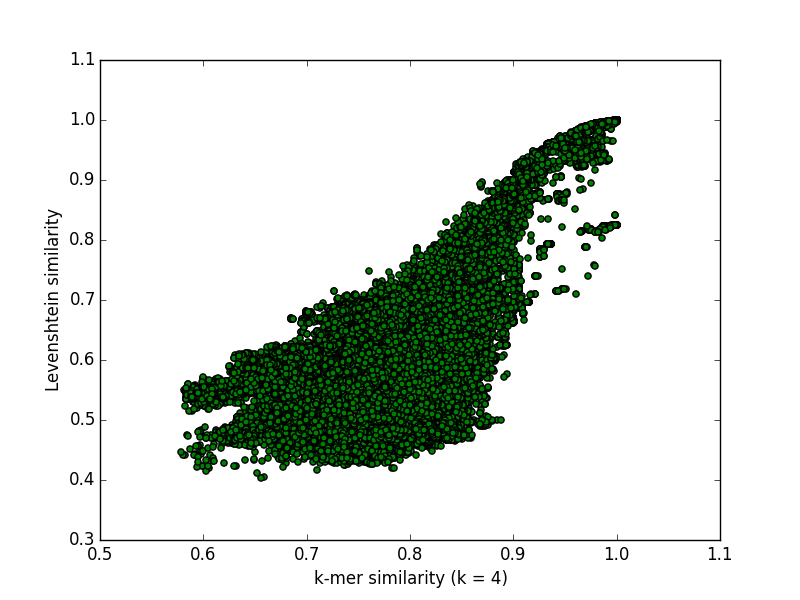
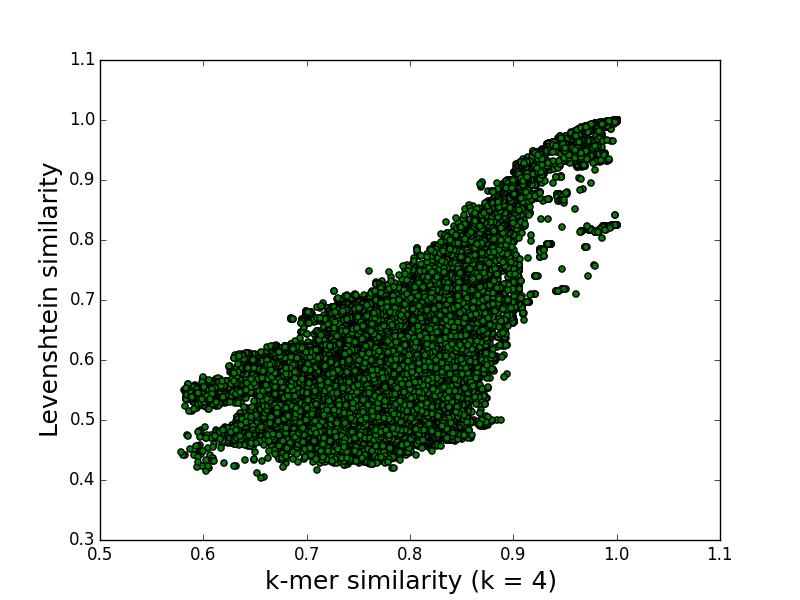
updated graphics

Changed region(s): [[0.0312, 0.27, 0.0938, 0.72], [0.3125, 0.93, 0.7188, 0.99]]

diff --git a/report/research_process.tex b/report/research_process.tex
@@ -101,34 +101,65 @@ total number of $k$-mers in the window in the two sequences, and the
 intersection as the Manhattan distance in the window.
 
 
+
+
+
+\subsection{\textsc{Simple\_Clust} algorithm}
+We have developed a clustering algorithm, named \textsc{Simple\_Clust}, which
+will be described in this section. \textsc{Simple\_Clust} works by iterating
+sequentially through the sequences to be clustered; the $max\_reject$ most
+frequent $k$-mers for the query sequence are calculated and for each of these
+most frequent $k$-mers, a centroid which has that $k$-mer as the most
+frequently occurring one (if one such centroid exists) is compared with the
+query sequence to check if distance is within the given threshold. The query
+sequence is assigned to the cluster for the first centroid that matches the
+query sequence; if no such centroid is found, out of the maximum possible
+$max\_reject$ number of tries, the query sequence becomes a centroid for a new
+cluster, the most frequent $k$-mer is decided and the sequence, along with this
+information, is added to the collection of centroids.
+
+This is repeated for all sequences in the input file.
+
+
 \subsection{Results}
 \begin{figure}[H]
-\begin{tabular}{ c | c }
-  Metric                                        & Comparisons/second      \\
-  \hline \hline
-  Dynamic programming (bottom up) Levenshtein   & $\sim$ 70               \\
-  \hline
-  d2-distance with window, $k=4$                & $\sim$ 73000            \\
-  \hline
-  d2-distance with window, $k=6$                & $\sim$ 63000            \\
-  \hline
-  d2-distance with window, $k=8$                & $\sim$ 24000            \\
-\end{tabular}
-\caption{Performance of different distance metrics.}
+  \centering
+  \begin{tabular}{ c | c }
+    Metric                                        & Comparisons/second      \\
+    \hline \hline
+    Dynamic programming (bottom up) Levenshtein   & $\sim$ 70               \\
+    \hline
+    d2-distance with window, $k=4$                & $\sim$ 73000            \\
+    \hline
+    d2-distance with window, $k=6$                & $\sim$ 63000            \\
+    \hline
+    d2-distance with window, $k=8$                & $\sim$ 24000            \\
+  \end{tabular}
+  \caption{Performance of different distance metrics.}
 \end{figure}
 
 \begin{figure}[H]
-  \begin{tabular}{ p{18em} | c | c }
-  Method  & Throughput/second   & \# of clusters \\
-  \hline \hline
-  \textsc{simple\_clust}, $k=4$, $max\_rejects=8$, $id=0.97$  & $\sim$ 11400  & 444654  \\
-  \hline
-  \textsc{simple\_clust}, $k=6$, $max\_rejects=8$, $id=0.97$  & $\sim$ 9575   & 470516  \\
-  \hline
-  \textsc{simple\_clust}, $k=8$, $max\_rejects=8$, $id=0.97$  & $\sim$ 2750   & 475465  \\
-\end{tabular}
-\caption{Performance of different clustering methods. Sequence data:
-         \texttt{RDP\_Pro\_Full\_sort.fna}. Count: 500,000. Throughput
-         specifies the number of sequences clustered per second (including
-         results output to file), but excludes reading the input file.}
+  \centering
+  \begin{tabular}{ p{12em} | c | c }
+    Method  & Throughput/second   & \# of clusters \\
+    \hline \hline
+    \textsc{Simple\_Clust}, $k=4$,
+    $max\_rejects=8$, $id=0.97$     & $\sim$ 11,400  & 444,654  \\
+    \hline
+    \textsc{Simple\_Clust}, $k=5$,
+    $max\_rejects=8$, $id=0.97$     & $\sim$ 10,700  & 461,266  \\
+    \hline
+    \textsc{Simple\_Clust}, $k=6$,
+    $max\_rejects=8$, $id=0.97$     & $\sim$ 9,575   & 470,516  \\
+    \hline
+    \textsc{Simple\_Clust}, $k=7$,
+    $max\_rejects=8$, $id=0.97$     & $\sim$ 6,350   & 474,463  \\
+    \hline
+    \textsc{Simple\_Clust}, $k=8$,
+    $max\_rejects=8$, $id=0.97$     & $\sim$ 2,750   & 475,465  \\
+  \end{tabular}
+  \caption{Performance of different clustering methods. Sequence data:
+           \texttt{RDP\_Pro\_Full\_sort.fna}. Count: 500,000. Throughput
+           specifies the number of sequences clustered per second (including
+           results output to file), but excludes reading the input file.}
 \end{figure}

diff --git a/src/scatter_plot.py b/src/scatter_plot.py
@@ -24,8 +24,8 @@ lev_a = [x for x in lev_a if x != 0]
 plt.scatter(kmer_a, lev_a, s=20, c='g')
 
 #plt.suptitle('test title', fontsize=20)
-plt.xlabel('k-mer similarity (k = 8)', fontsize=12)
-plt.ylabel('Levenshtein similarity', fontsize=12)
+plt.xlabel('k-mer similarity (k = 8)', fontsize=18)
+plt.ylabel('Levenshtein similarity', fontsize=18)
 
 plt.savefig("k8.png")
 #plt.show()
